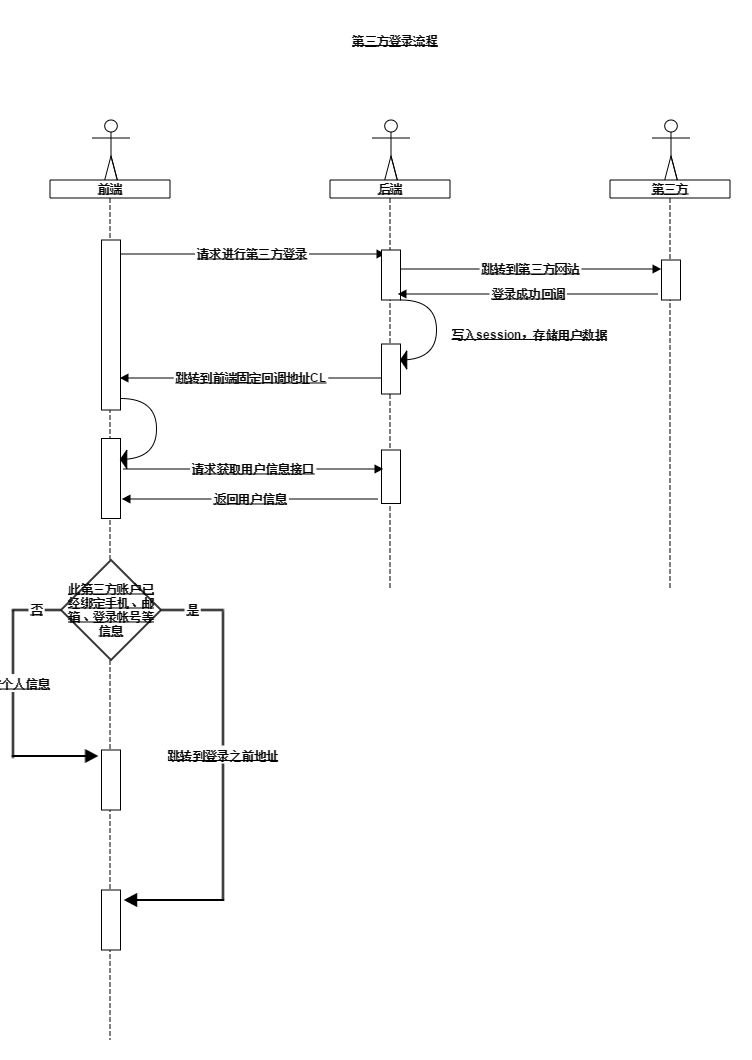
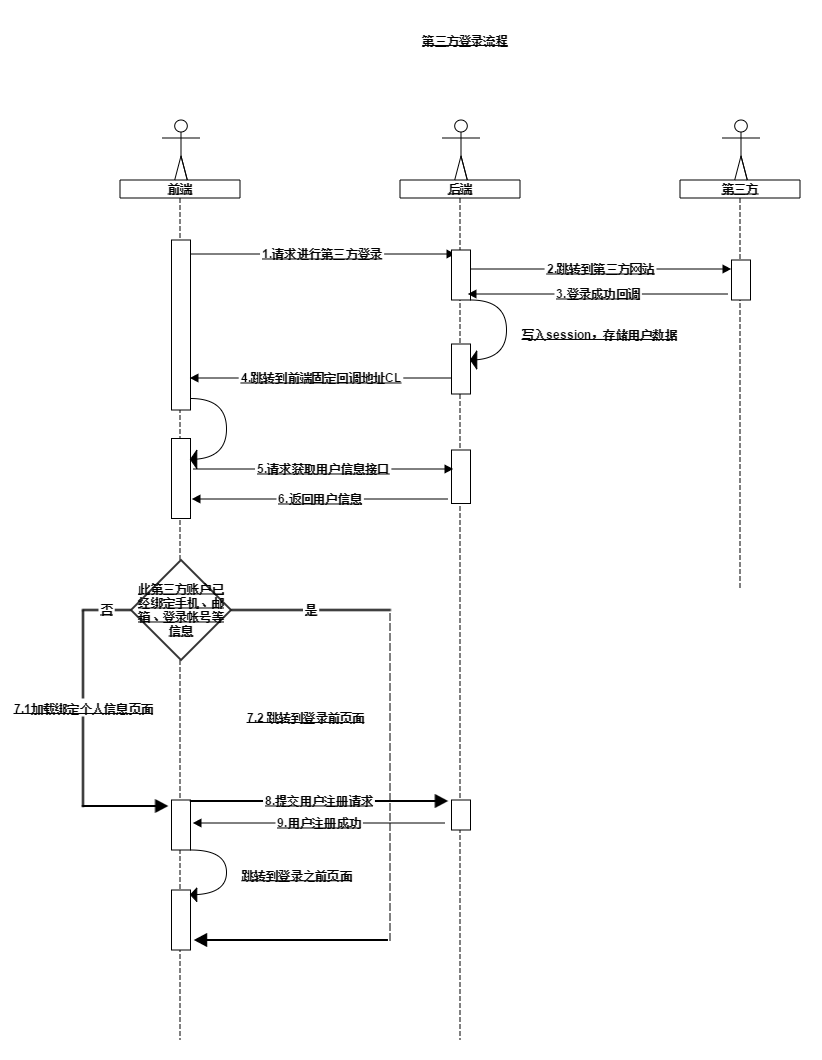
完善登录相关文档

diff --git a/README.md b/README.md
@@ -27,7 +27,9 @@
 
 ## 4. api接口文档
 
-普通接口文档参见[*rap*](http://rap.taobao.org/workspace/myWorkspace.do?projectId=10767#81538)
+普通接口文档参见[*rap*](http://rap.taobao.org/workspace/myWorkspace.do?projectId=10767#81538)  
+关于前端登录状态判断的文档参见[这里](https://github.com/HackerValley/Coding-Show-BackEnd/wiki/login_status)  
+第三方登录流程参见[这里](https://github.com/HackerValley/Coding-Show-BackEnd/wiki/third_login)
 
 
 ## 5. 目录结构
